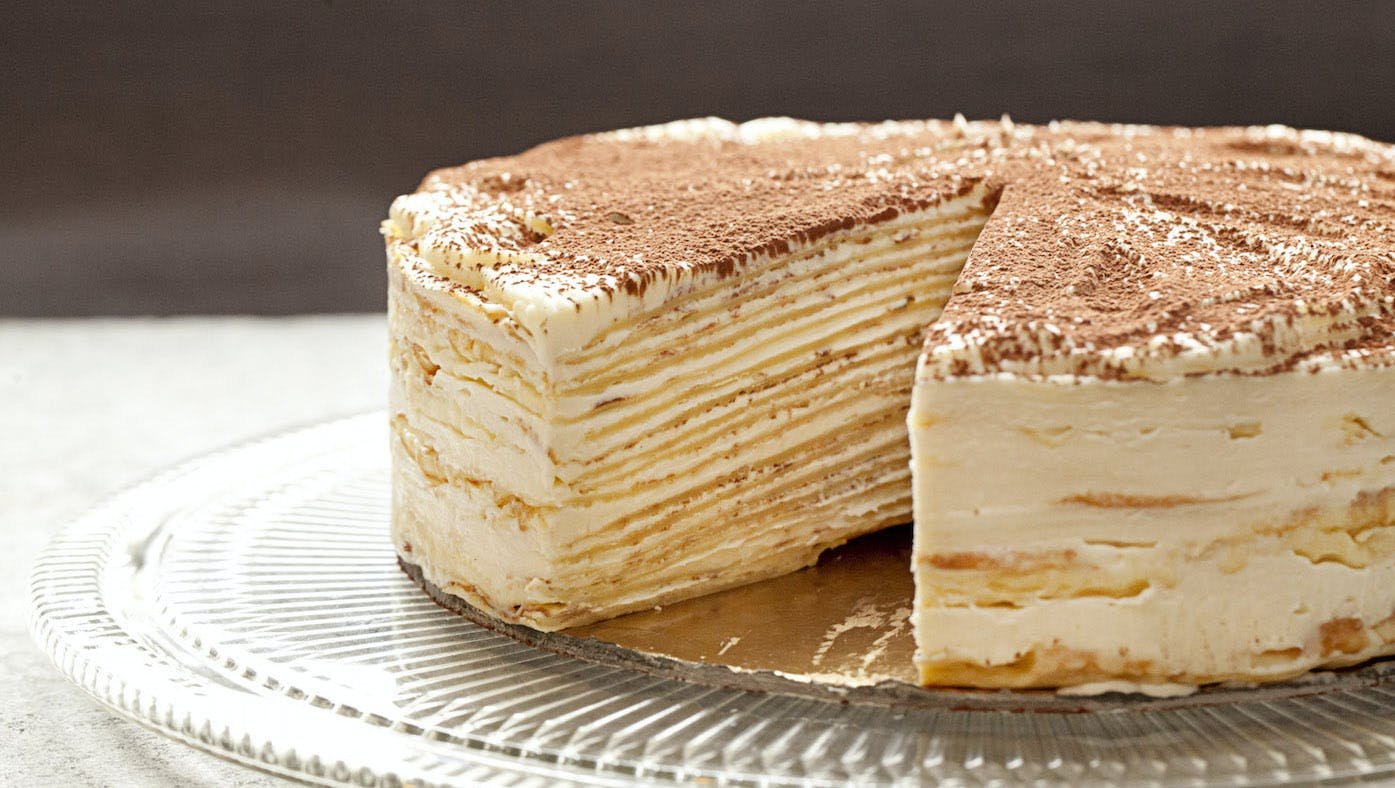
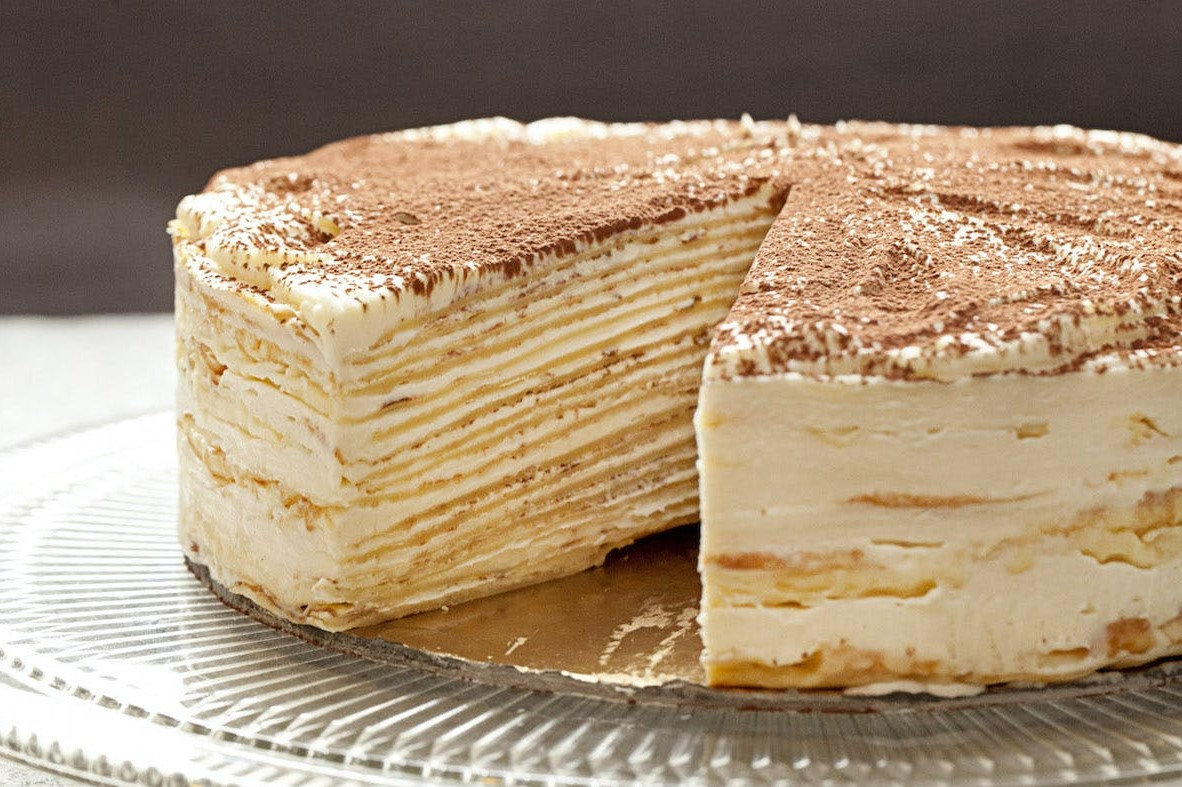
fixed image issues

diff --git a/pages/products.html b/pages/products.html
@@ -25,27 +25,27 @@
 
     <div id="product-content">
         <div class="product-tile">
-            <img src="../img/cake-img-3.jpg" class="product-img" alt="Buttercream cake">
+            <img src="../img/cake-img-new-1.jpg" class="product-img" alt="Buttercream cake">
             <p>Buttercream Birthday Cake</p>
         </div>
         <div class="product-tile">
-            <img src="../img/cake-img-7.jpg" class="product-img" alt="Coffee cake">
+            <img src="../img/cake-img-new-2.jpg" class="product-img" alt="Coffee cake">
             <p>Coffee Cake</p>
         </div>
         <div class="product-tile">
-            <img src="../img/cake-img-6-precrop.jpg" class="product-img" alt="Chocolate vanilla cake">
+            <img src="../img/cake-img-new-3.jpg" class="product-img" alt="Chocolate vanilla cake">
             <p>Chocolate Vanilla Cake</p>
         </div>
         <div class="product-tile">
-            <img src="../img/cake-img-9.jpg" class="product-img" alt="German cake">
+            <img src="../img/cake-img-new-4.jpg" class="product-img" alt="German cake">
             <p>German Chocolate Cake</p>
         </div>
         <div class="product-tile">
-            <img src="../img/cake-img-5.jpeg" class="product-img" alt="hot pink cake">
+            <img src="../img/cake-img-new-5.jpeg" class="product-img" alt="hot pink cake">
             <p>Hot Pink Butter Cake</p>
         </div>
         <div class="product-tile">
-            <img src="../img/cake-img-10.jpg" class="product-img" alt="tiramisu cake">
+            <img src="../img/cake-img-new-6.jpg" class="product-img" alt="tiramisu cake">
             <p>Mille-Crepe Tiramisu Cake</p>
         </div>
     </div>

diff --git a/index.html b/index.html
@@ -25,7 +25,7 @@
         </nav>
     </header>
 
-    <h2 class="white-text center-text">Welcome to Cat's GGGCakes! We like big cakes and we cannot lie.</h2>
+    <h2 class="white-text center-text">Welcome to Cat's Cakes! We like big cakes and we cannot lie.</h2>
 
     <div class="body-div">
         <img src="img/cake-img.jpg" alt="cake" id="cake-img">
